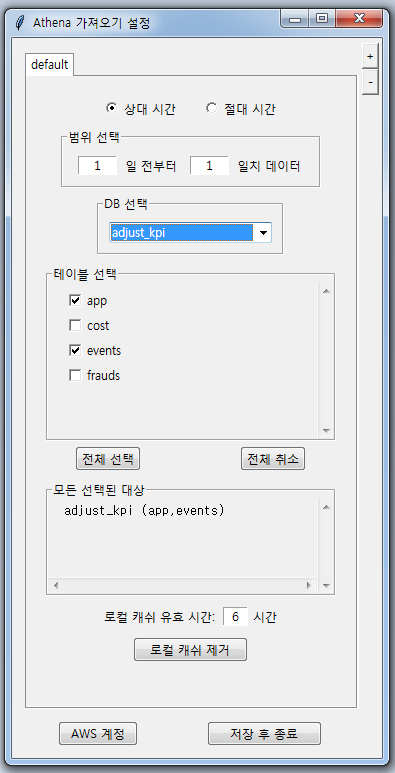
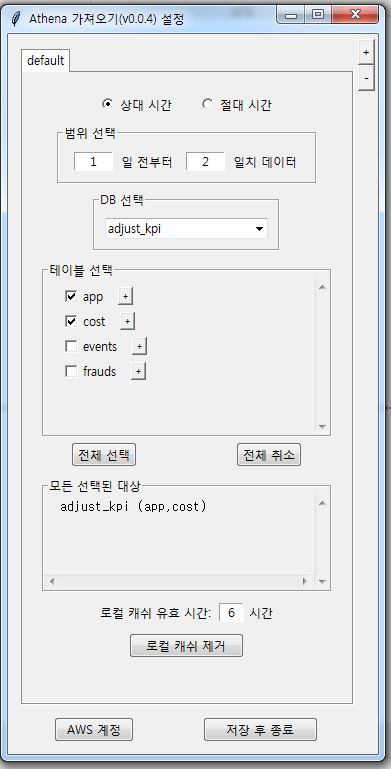
update doc

diff --git a/setting.py b/setting.py
@@ -472,8 +472,8 @@ class Profile:
             ckbf = Frame(self.tbl_text)
             ckb = Checkbutton(ckbf, text=tbl, variable=cv, command=on_check)
             ckb.pack(side=LEFT)
-            ckbb = Button(ckbf, text='+', command=make_on_table(tbl))
-            ckbb.pack(side=RIGHT, padx=(13,0))
+            ckbb = Button(ckbf, text='+', command=make_on_table(tbl), width=1, height=1, font="Helvetica 6")
+            ckbb.pack(side=RIGHT, padx=(10,0))
             self.tbl_text.window_create("end", window=ckbf)
             self.tbl_text.insert("end", "\n")
             self.tbl_ckbs.append(ckb)

diff --git a/README.md b/README.md
@@ -25,6 +25,12 @@ Power BI Athena Connector in Python
 3. Power BI에서 불러올 테이블들을 체크합니다.
 4. `저장 후 종료` 버튼을 눌러 설정을 저장하고 종료합니다.
 
+### 테이블 상세 정보
+![테이블 상세](images/tableinfo.png)
+가져올 테이블에 어떤 데이터와 컬럼이 있는지 확인하고, 가져올 컬럼을 선택할 수 있습니다.
+1. `테이블 선택` 란에서 테이블 이름 옆에 있는 작은 '+' 버튼을 클릭합니다.
+2. `테이블 상세` 대화창에서 데이터를 확인하고, 제외할 컬럼이 있으면 체크를 해제합니다.
+
 ## Power BI 설정하기
 ![옵션 파이썬](images/option_python.png)
 1. Power BI `옵션 및 설정` 메뉴의 `옵션`을 선택합니다.
